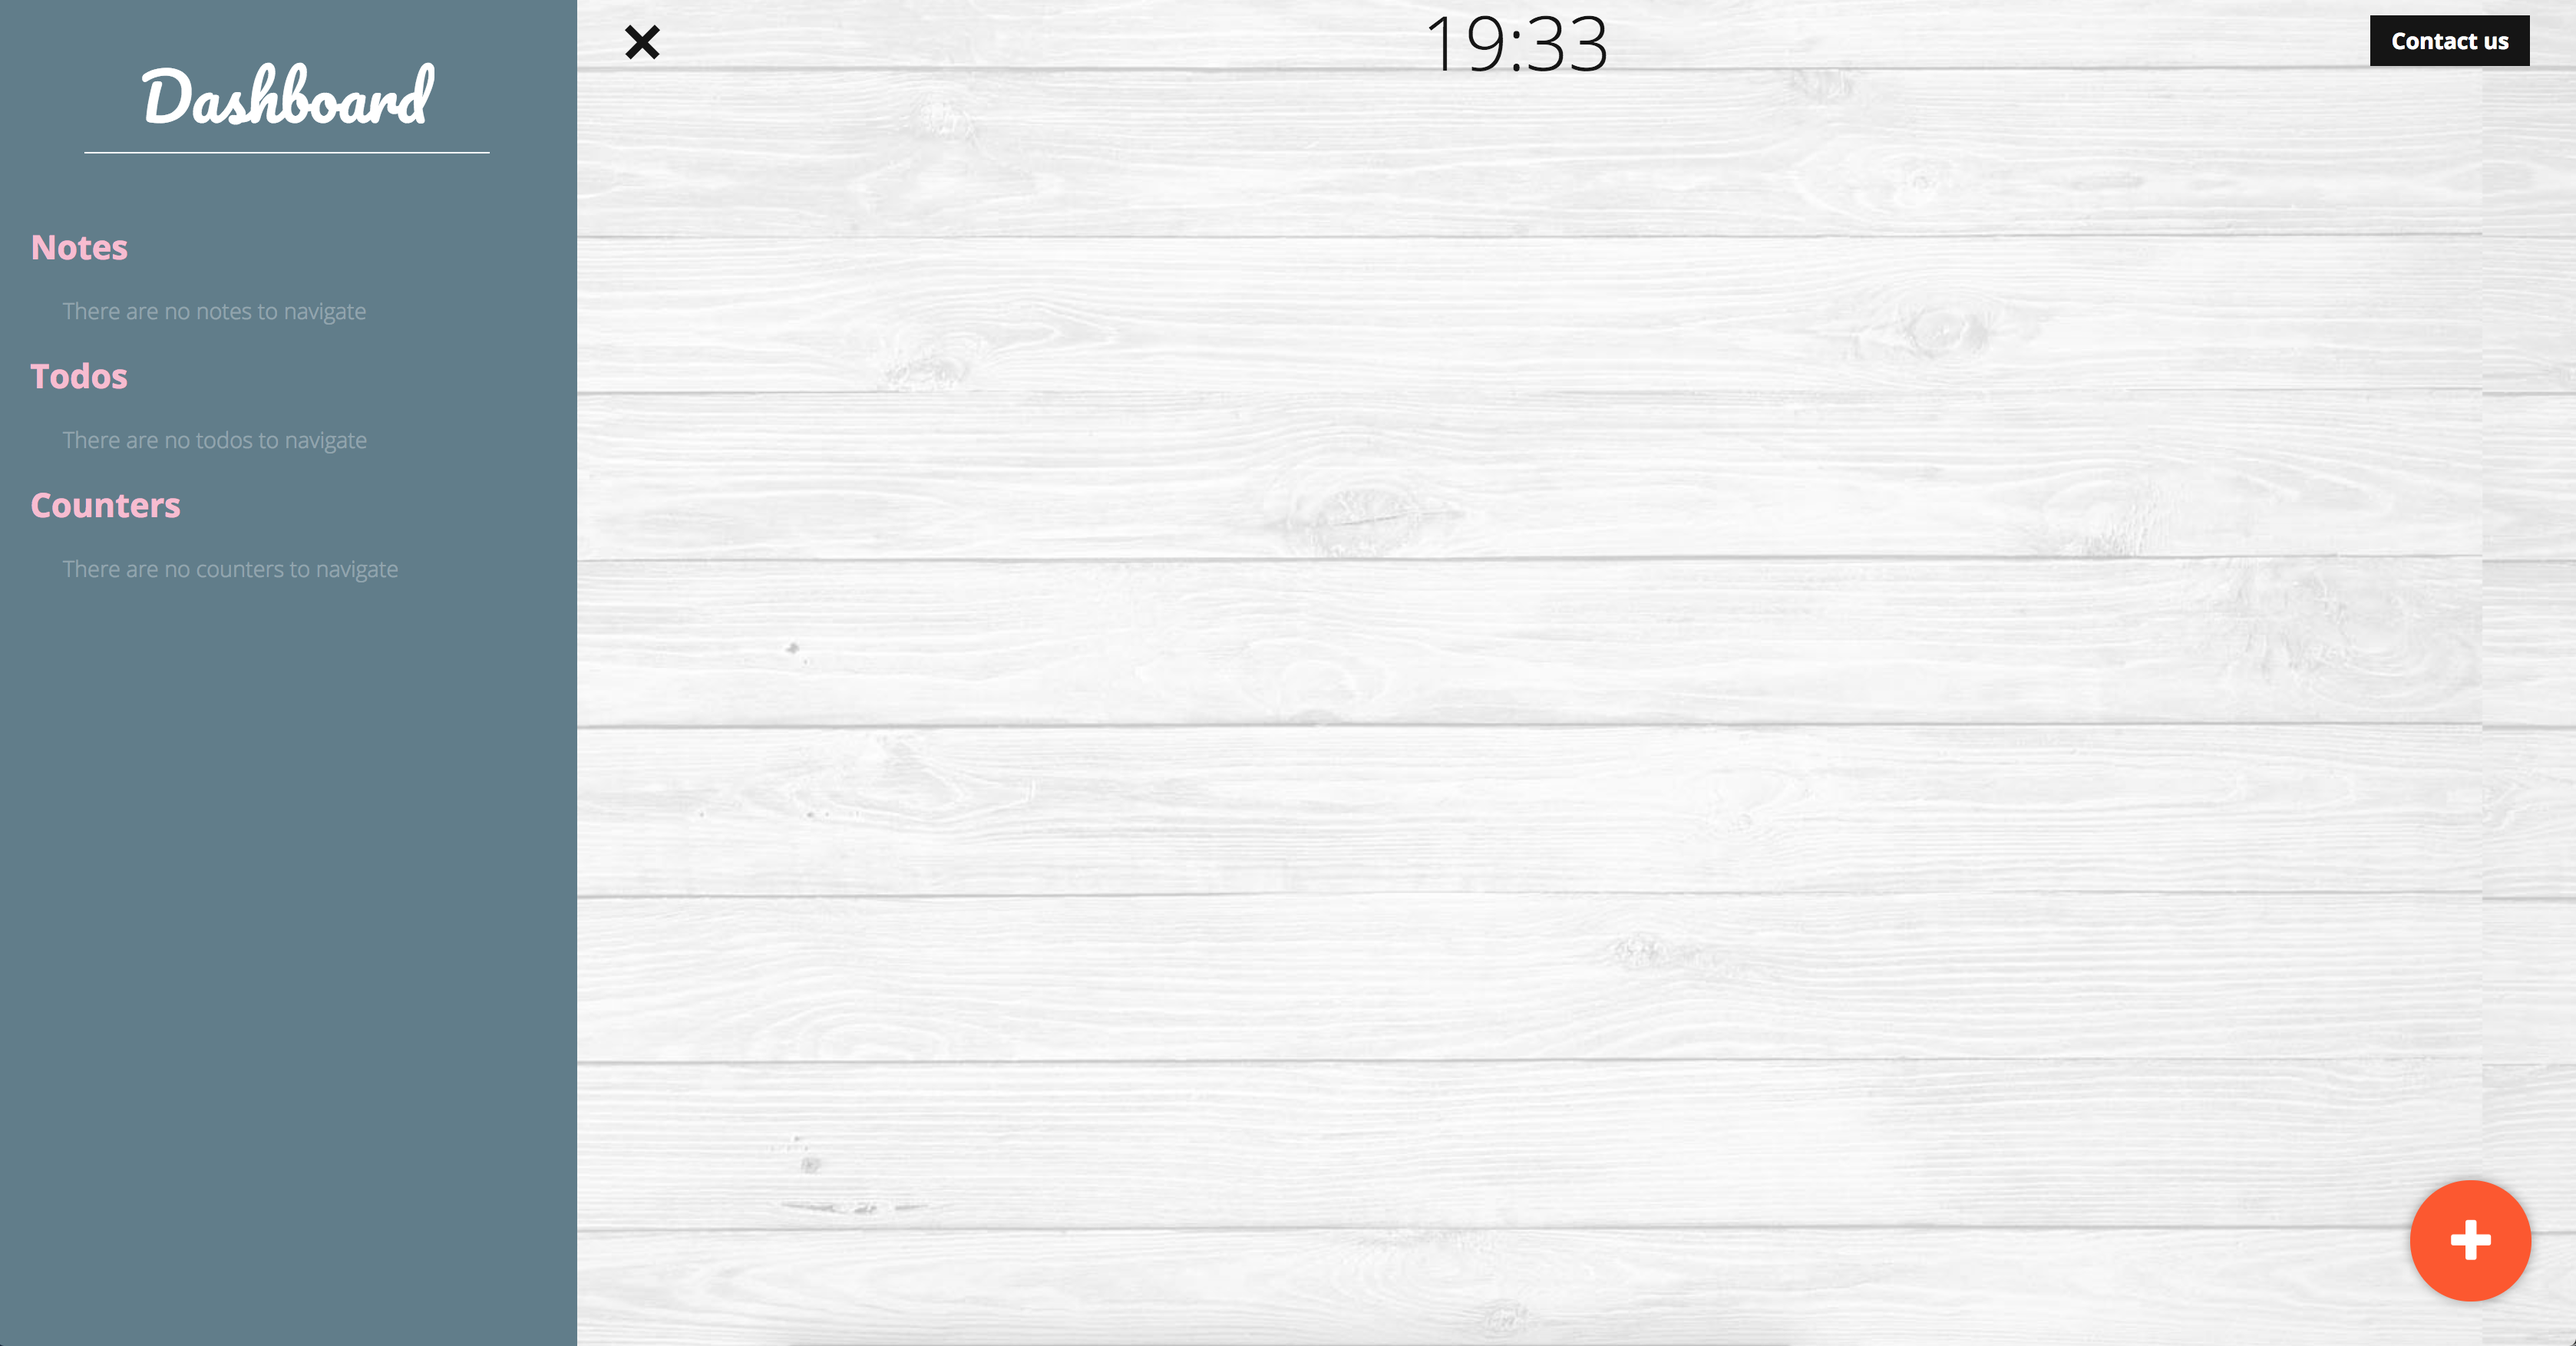
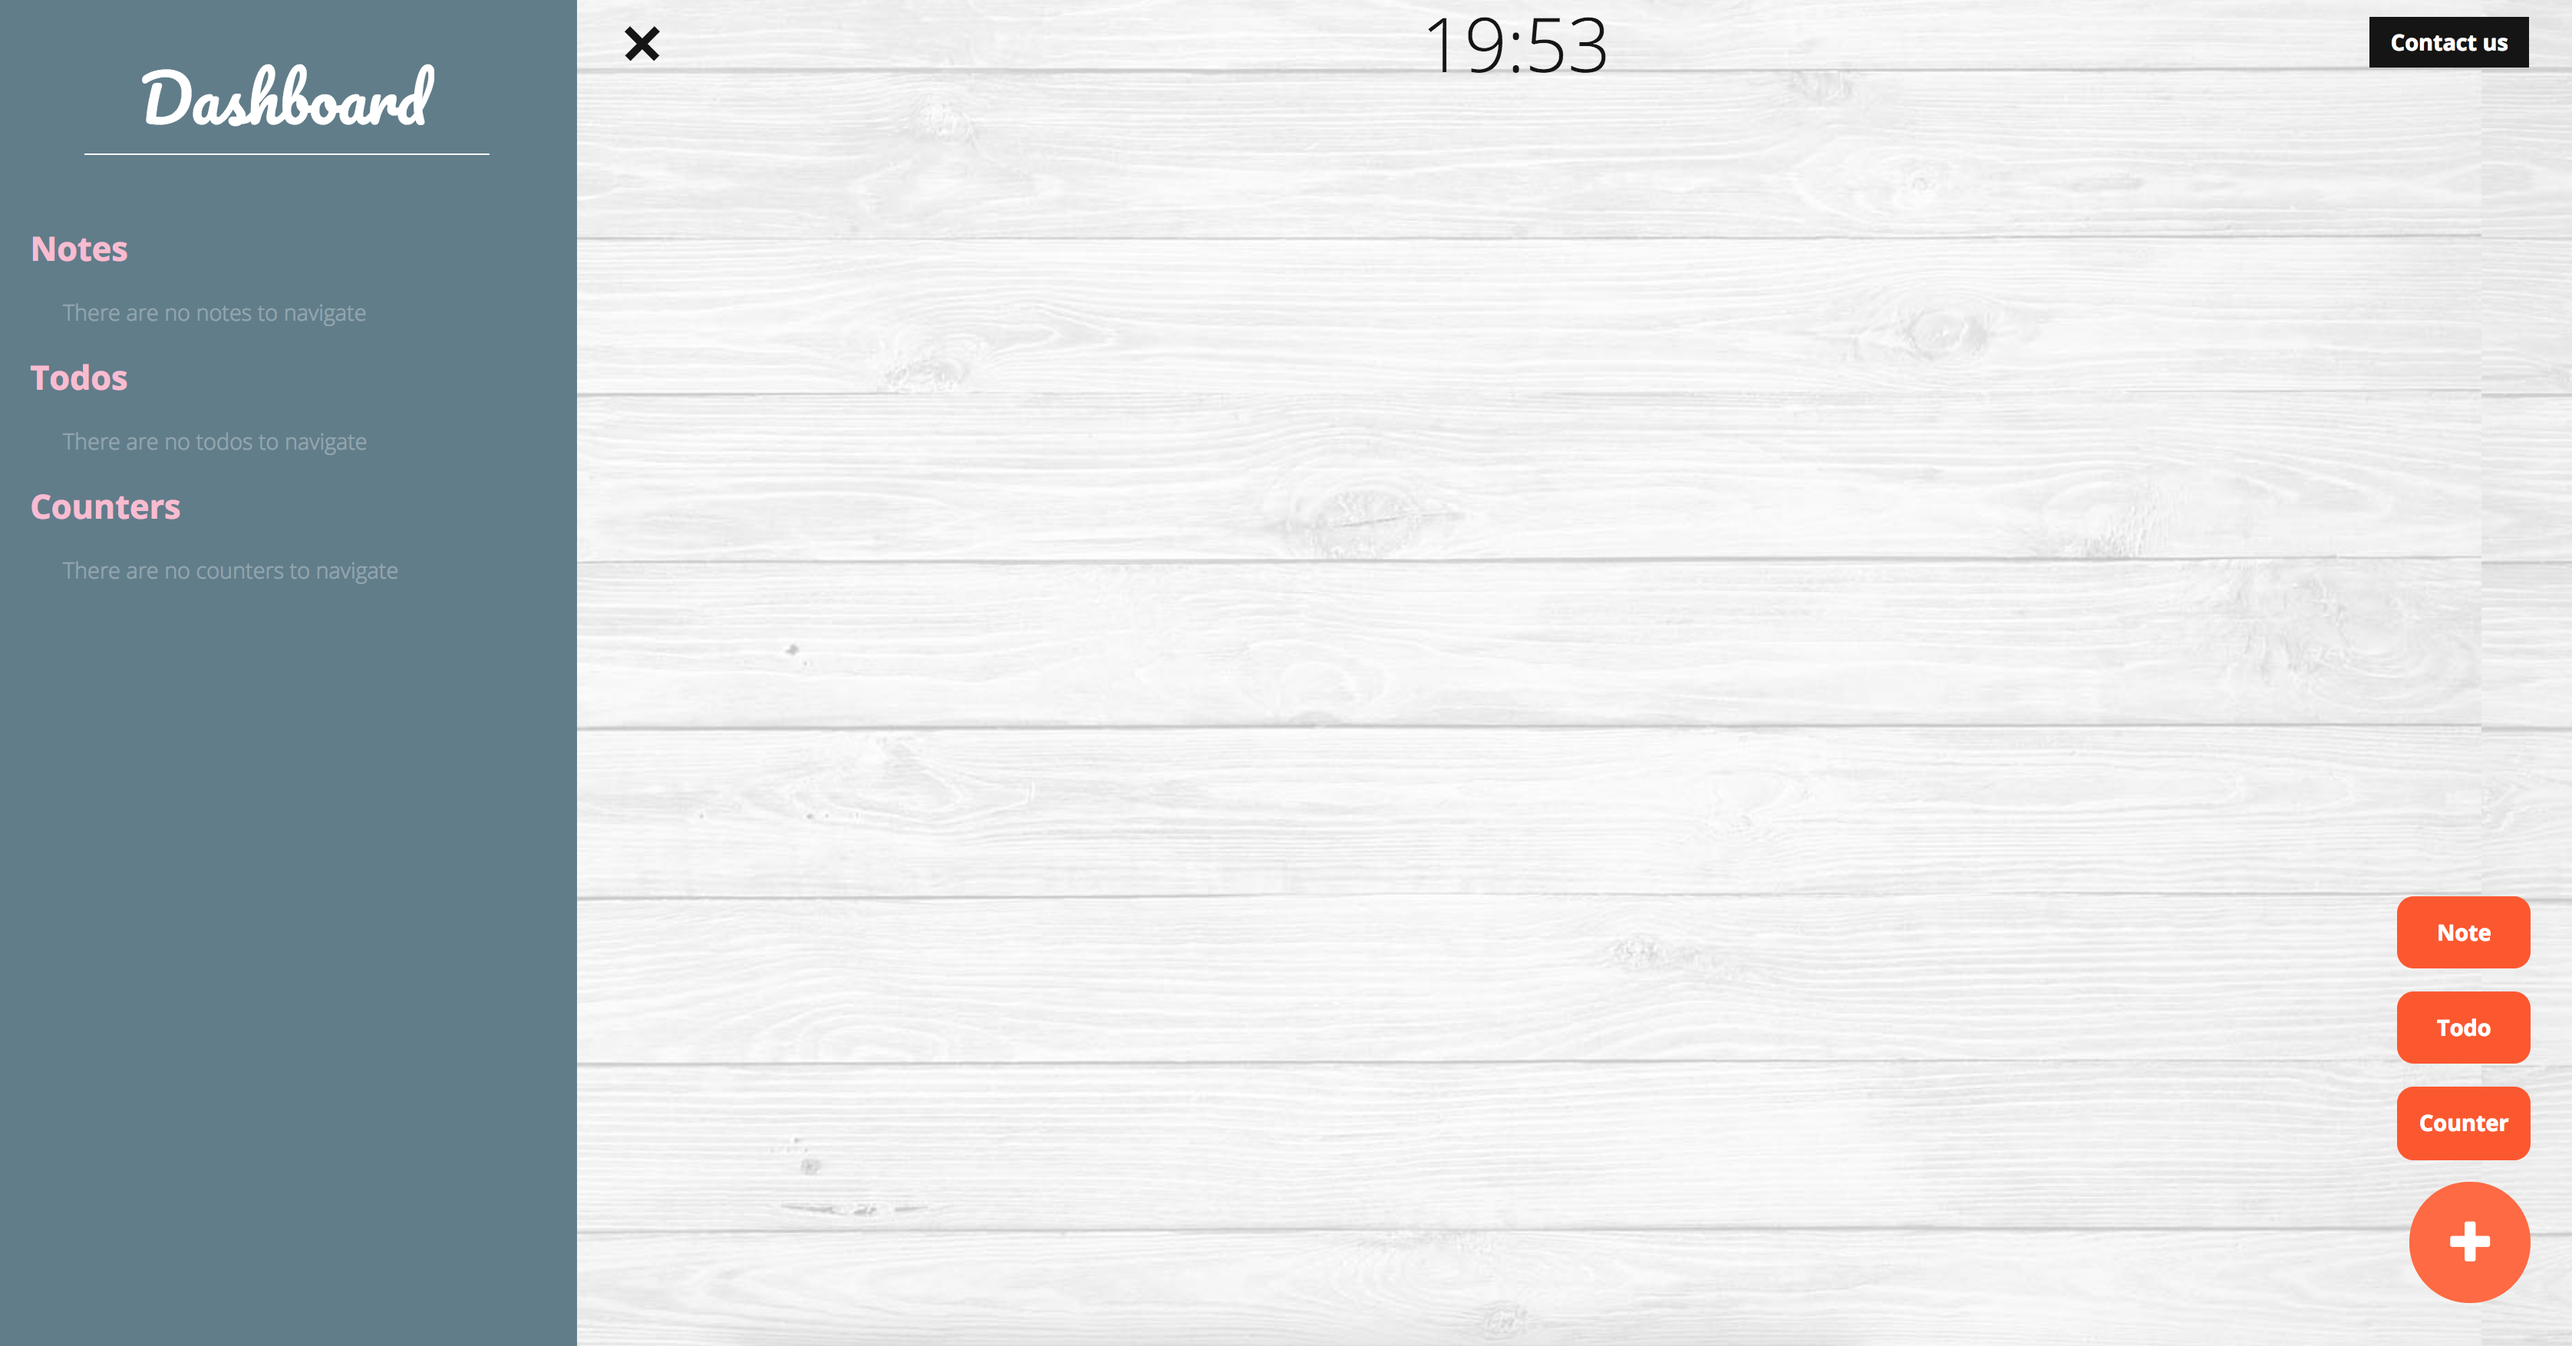
documentation

diff --git a/documentation/Readme.md b/documentation/Readme.md
@@ -42,3 +42,17 @@ Aplikace má k dispozici 3 stránky:
    ![contact](https://github.com/misslecter/dashboard/blob/master/documentation/images/contact.png "Dashboard")
    
 ## Dashboard - hlavní pracovní plocha
+* Hlavička
+    * "Burger" tlačítko na otevření sidemenu
+        * v menu najdeme seznam všech aktivních modulů
+    * Aktuální čas
+    * Odkaz na stránku [Contact](http://anastasiasurikova.com/dashboard/#contact)
+* Hlavní plocha
+    * Místo, kam se přidávají nové moduly
+* Tlačítko na přidání nového modulu
+    * nová poznámka
+    * nový seznam úkolů
+    * nový odpočítávač dnů
+
+
+![dashboard](https://github.com/misslecter/dashboard/blob/master/documentation/images/dashboard-opened.png "Dashboard")
